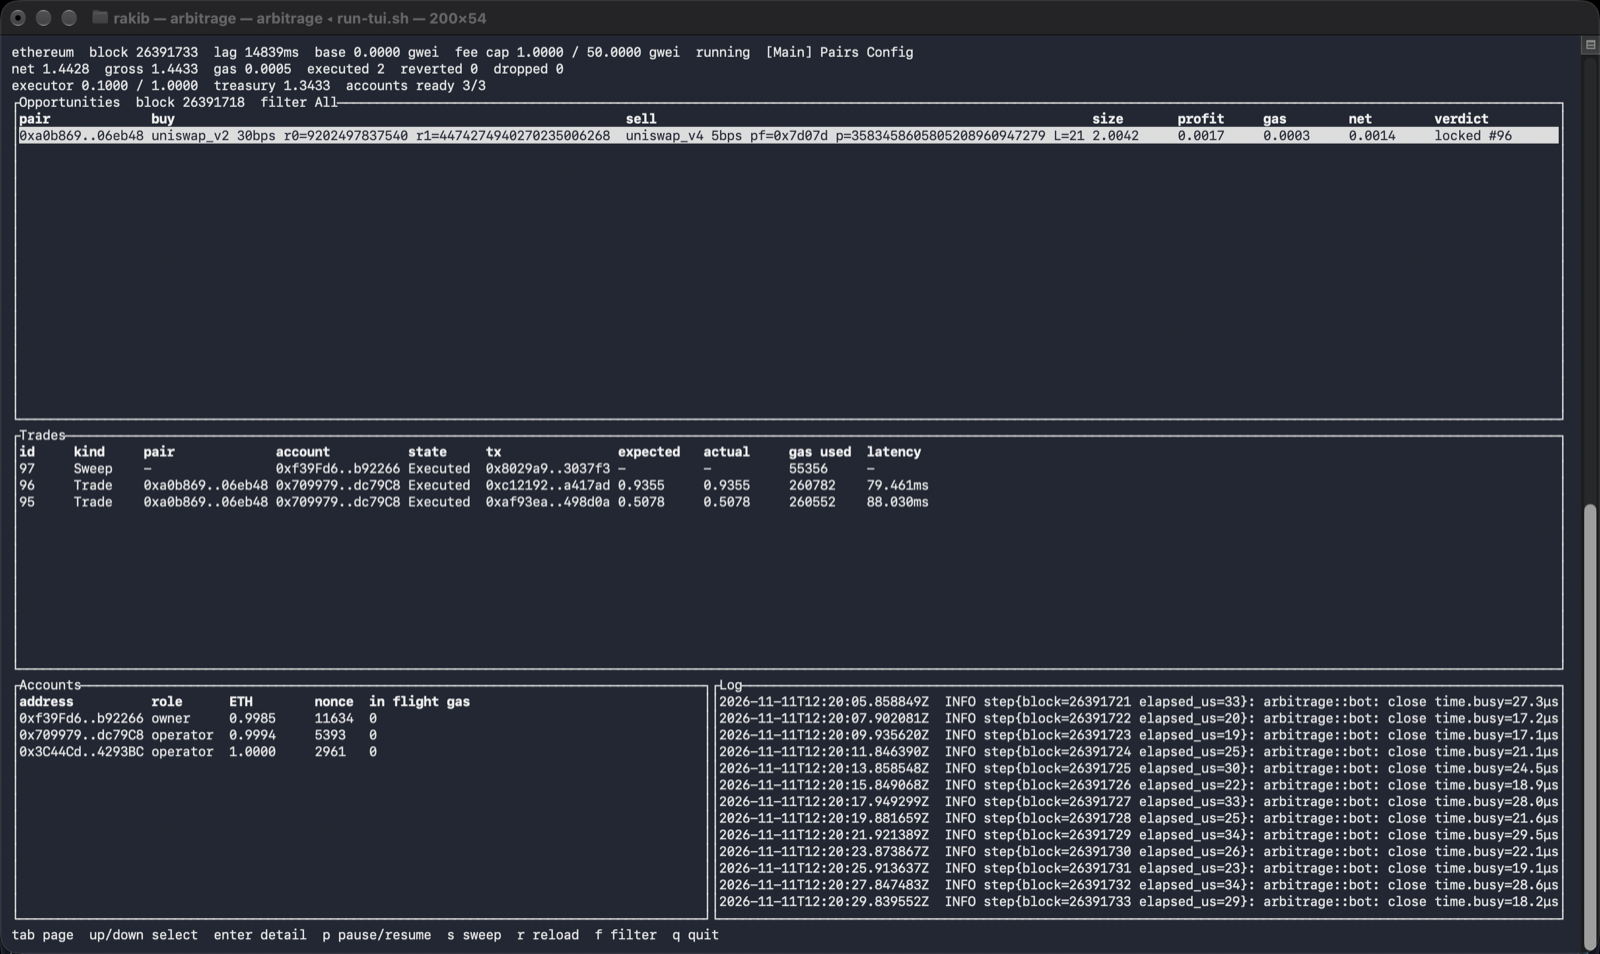
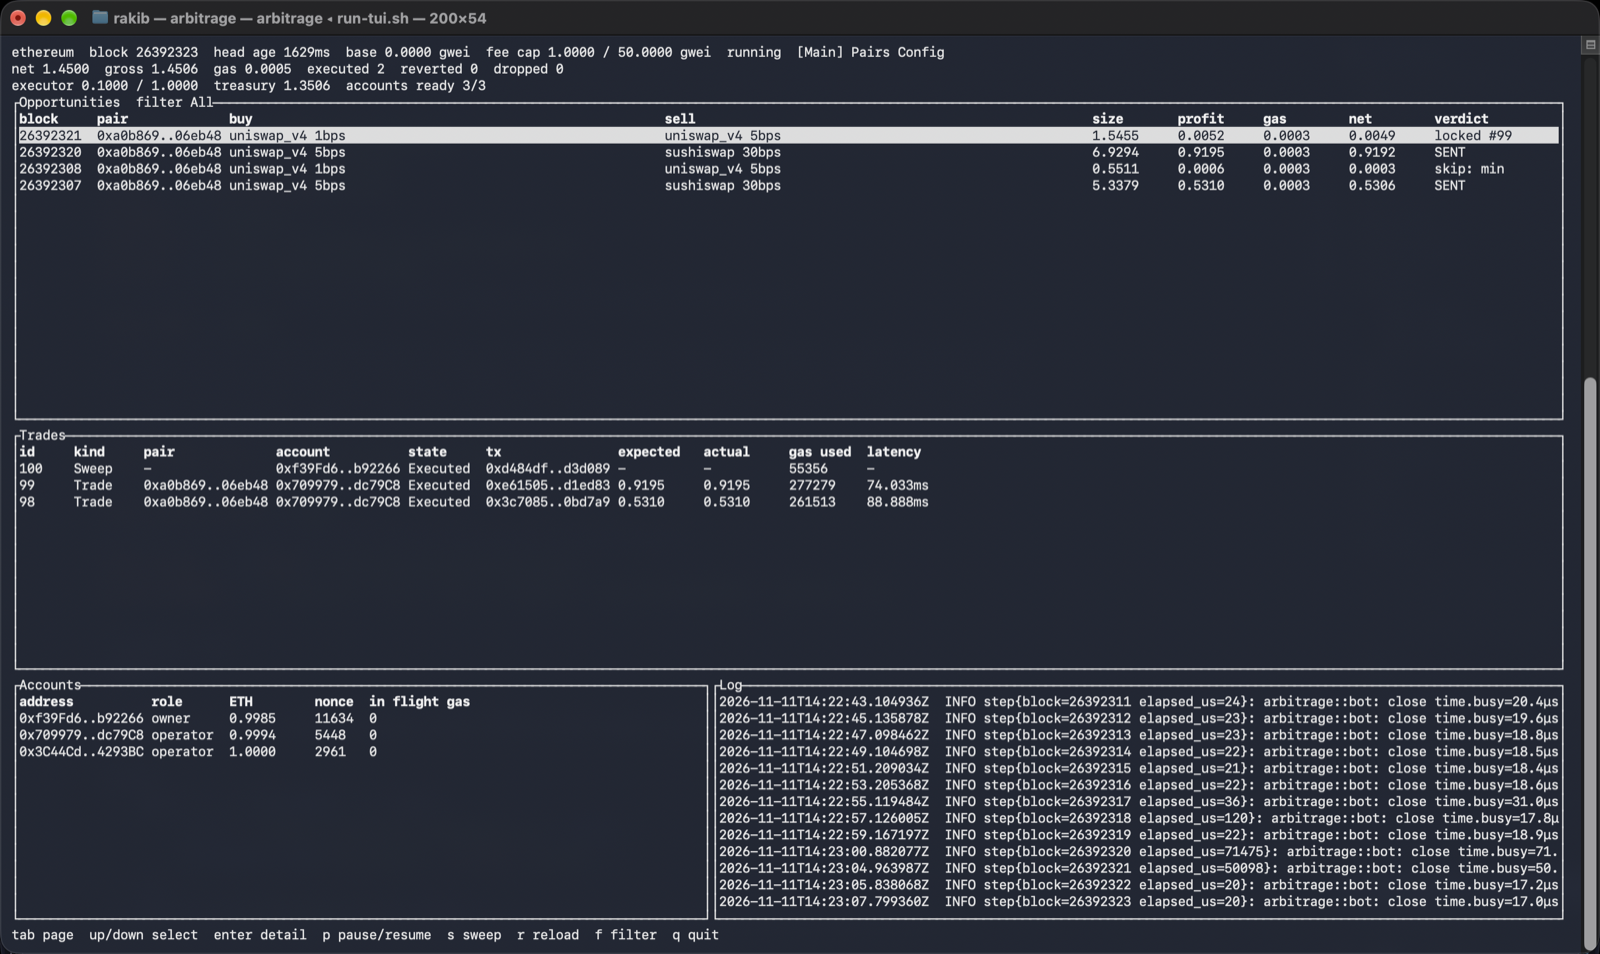
Retake screenshots after the UI fixes

diff --git a/README.md b/README.md
@@ -10,7 +10,11 @@ Captured from a live fork run.
 
 ![Main screen](docs/images/main.png)
 
-The main screen after two executed trades, +0.5078 and +0.9355 ETH. The executor swept 1.3433 ETH to the treasury.
+The main screen after two executed trades, +0.5310 and +0.9195 ETH. The executor swept 1.3506 ETH to the treasury. The opportunities panel keeps recent decisions across blocks.
+
+![Connecting](docs/images/connecting.png)
+
+Startup: the screen shows the connect while pools load, before any trading.
 
 ![First trade](docs/images/first-trade.png)
 
